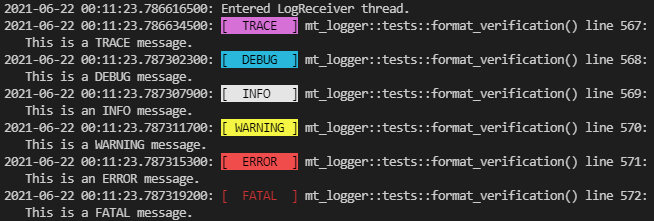
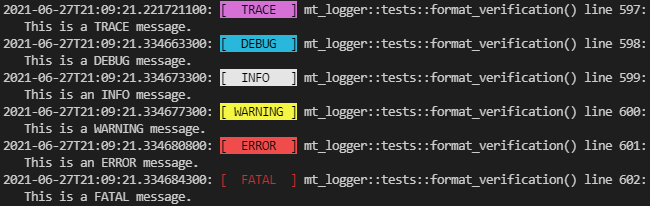
2.2.1: Updated README to reflect ISO 8601 update - Added Note re: mt_flush!()

diff --git a/README.md b/README.md
@@ -1,14 +1,20 @@
 # mt_logger
 
-`mt_logger` is a multithreaded Rust logging library focused on traceability and ease-of-use via macros. Due to the nature of multithreading, it is best used in long-running programs with frequent or regular yields, such as web servers or game engines.
+`mt_logger` is a multithreaded Rust logging library focused on traceability, and ease-of-use via macros.
 
-Logs are stored in a `logs` directory inside the current working directory when a program is launched. The directory will be created if it does not already exist. Log file names follow the format
-`mt_log_YYYY-MM-DD_HH_MM_SS.sss.log`
+Logs are stored in a `logs` directory, located inside the current working directory when a program is launched. The directory will be created if it does not already exist. Log file names conform to [ISO 8601](https://en.wikipedia.org/wiki/ISO_8601), with the exception that `:` is replaced with `_` to meet Windows filename requirements.
 
 At initialization, a thread is created to receive log messages and commands from the main thread. Timestamps are set before sending in order to maintain complete traceability.
 
 ## Usage
-The recommended method for using `mt_logger` is via macros. A global log sender is created by `mt_new!()`, so all further log messages and commands can be issues simply by calling the appropriate macro, such as `mt_log!()` to send a log message. No passing of references to a logger instance, or cloning of an `mpsc::Sender` required!
+The recommended method for using `mt_logger` is via macros. A global log sender/receiver pair is created by `mt_new!()`, so all further log messages and commands can be issued simply by calling the appropriate macro, e.g., `mt_log!()` to send a log message. No passing of references to a logger instance, or cloning of an `mpsc::Sender` required!
+
+Additionally, all macros are designed to essentially no-op when the global instance is not initialized. This allows logging to be enabled/disabled with minimal code impact. For example, a program may be designed to only call `mt_new!()` when a `-log` switch is passed in, allowing the program to run silently when the switch is omitted.
+
+### Note
+Though accurate timestamps and correct ordering of messages are guaranteed, due to the nature of multithreading, the time at which a log message is recorded to an output stream is not. The `mt_flush!()` macro addresses this issue. It will block until all queued messages in the channel are flushed to the specified output stream(s). It is recommended that this macro be called during the shutdown of a program, otherwise any queued messages will be lost.
+
+## Contrived Example Code
 
 ```rust
 use mt_logger::*;
@@ -17,7 +23,7 @@ fn main() {
     // Initialize the mt_logger global instance
     mt_new!(Level::Info, OutputStream::Both);
 
-    // Send a log message that WILL be output
+    // Send a log message that WILL be output to BOTH file and stdout
     mt_log!(Level::Info, "Message {}: an INFO message", 1);
     // Send a log message that WILL NOT be output
     mt_log!(Level::Debug, "Message {}: a DEBUG message", 2);
@@ -28,9 +34,9 @@ fn main() {
     // Change the logging level
     mt_level!(Level::Trace);
 
-    // Send a log message that WILL be output
+    // Send a log message that WILL be output to stdout ONLY
     mt_log!(Level::Info, "Message {}: an INFO message", 3);
-    // Send a log message that WILL be output
+    // Send a log message that WILL be output to stdout ONLY
     mt_log!(Level::Trace, "Message {}: a TRACE message", 4);
 
     // Flush to ensure all messages reach the specified output
@@ -42,23 +48,23 @@ fn main() {
 }
 ```
 
-## Sample Output
+## Output Samples
 
 ### Console
 ![](res/console_output_sample.png)
 
 ### File
 ```
-2021-06-21 23:58:01.242087900: [  TRACE  ] mt_logger::tests::format_verification() line 567:
+2021-06-27T21:09:21.221721100: [  TRACE  ] mt_logger::tests::format_verification() line 597:
    This is a TRACE message.
-2021-06-21 23:58:01.242918100: [  DEBUG  ] mt_logger::tests::format_verification() line 568:
+2021-06-27T21:09:21.334663300: [  DEBUG  ] mt_logger::tests::format_verification() line 598:
    This is a DEBUG message.
-2021-06-21 23:58:01.242931700: [  INFO   ] mt_logger::tests::format_verification() line 569:
+2021-06-27T21:09:21.334673300: [  INFO   ] mt_logger::tests::format_verification() line 599:
    This is an INFO message.
-2021-06-21 23:58:01.242939600: [ WARNING ] mt_logger::tests::format_verification() line 570:
+2021-06-27T21:09:21.334677300: [ WARNING ] mt_logger::tests::format_verification() line 600:
    This is a WARNING message.
-2021-06-21 23:58:01.242948000: [  ERROR  ] mt_logger::tests::format_verification() line 571:
+2021-06-27T21:09:21.334680800: [  ERROR  ] mt_logger::tests::format_verification() line 601:
    This is an ERROR message.
-2021-06-21 23:58:01.242954100: [  FATAL  ] mt_logger::tests::format_verification() line 572:
+2021-06-27T21:09:21.334684300: [  FATAL  ] mt_logger::tests::format_verification() line 602:
    This is a FATAL message.
 ```
